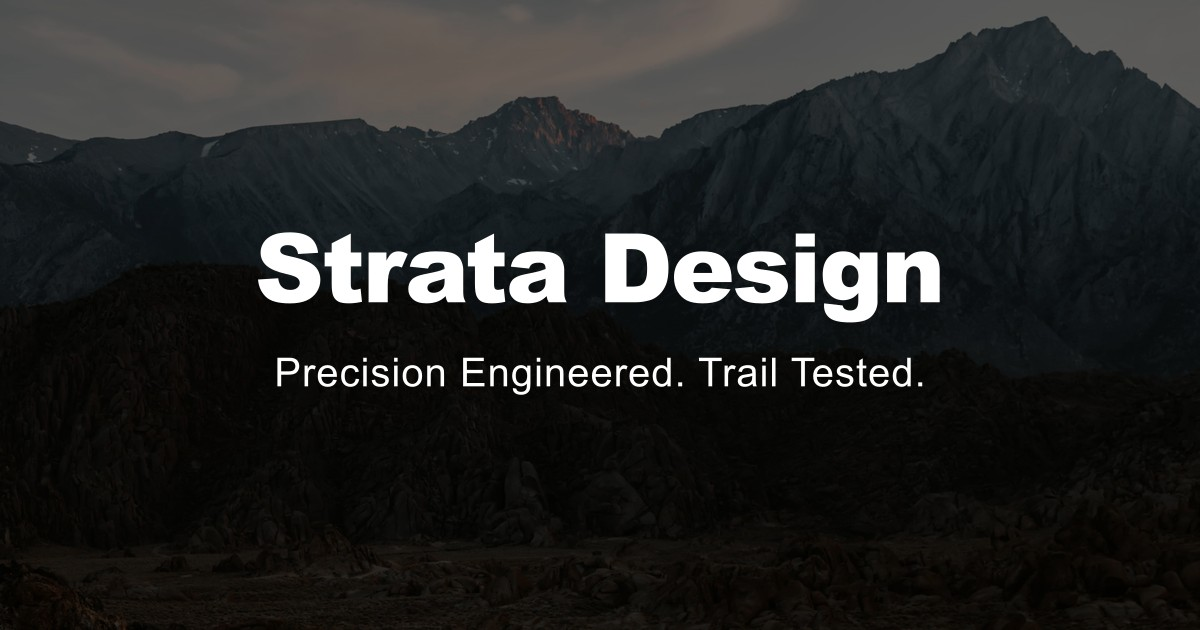
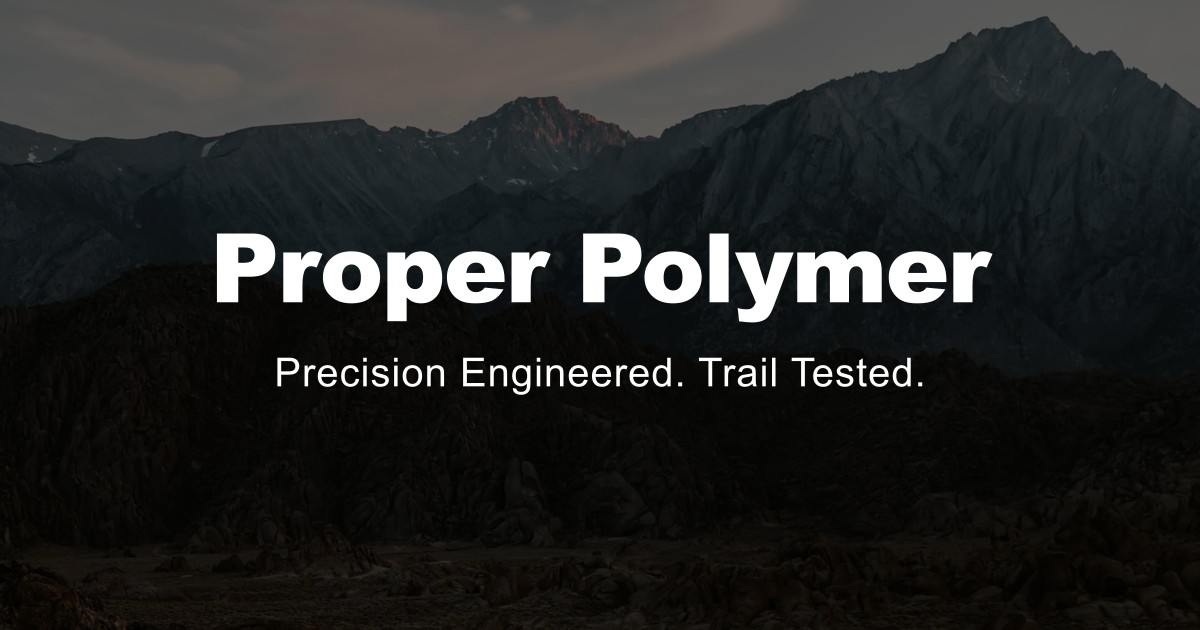
Updated OG image for properpolymer.com

Changed region(s): [[0.1542, 0.3619, 0.8325, 0.5127]]

diff --git a/app/layout.tsx b/app/layout.tsx
@@ -44,14 +44,14 @@ export const metadata: Metadata = {
     url: "https://www.properpolymer.com",
     locale: "en_US",
     type: "website",
-    images: [{ url: "/hero.jpg" }],
+    images: [{ url: "https://www.properpolymer.com/og-image.jpg" }],
   },
   twitter: {
     card: "summary_large_image",
     title: "Proper Polymer — Precision Engineered. Trail Tested.",
     description:
       "Premium 3D printable STL files for Toyota Tacoma accessories.",
-    images: ["/hero.jpg"],
+    images: ["https://www.properpolymer.com/og-image.jpg"],
   },
   verification: {
     google: "1mov5pimO_l9BkNVhrq3Ry3ZNR7x8beOYGWExCdvLNI",
